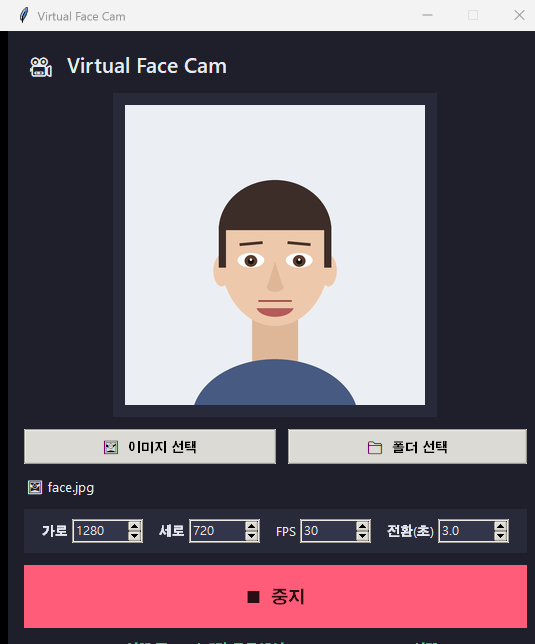
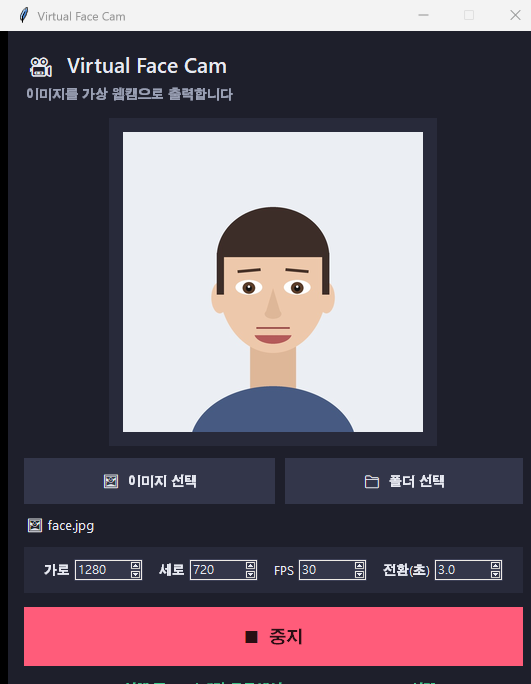
UI 개선: HiDPI 대응 + 플랫 디자인
- 고배율(HiDPI) 화면 흐림 방지: DPI awareness + Tk scaling
- 미리보기 크기를 화면 배율에 맞춰 스케일
- 파일 선택 버튼을 다크 플랫 스타일 + 호버 효과로 교체
- 스핀박스/입력창 테두리 정리, 부제목 추가
- 스크린샷 갱신

diff --git a/gui.py b/gui.py
@@ -2,11 +2,33 @@
 
     python gui.py
 """
+import sys
 import threading
 from pathlib import Path
 
 import tkinter as tk
 from tkinter import filedialog, messagebox, ttk
+
+
+def enable_hidpi():
+    """Windows 고해상도 화면에서 흐릿하게 확대되는 것 방지."""
+    if sys.platform == "win32":
+        import ctypes
+        try:
+            # PER_MONITOR_AWARE_V2 (Win10 1703+)
+            ctypes.windll.user32.SetProcessDpiAwarenessContext(-4)
+            return
+        except Exception:
+            pass
+        try:
+            ctypes.windll.shcore.SetProcessDpiAwareness(2)
+            return
+        except Exception:
+            pass
+        try:
+            ctypes.windll.user32.SetProcessDPIAware()
+        except Exception:
+            pass
 
 from PIL import Image, ImageTk
 
@@ -41,6 +63,13 @@ class App:
         self.error = None
         self._thumb = None
 
+        # 화면 배율에 맞춘 미리보기 크기 (96dpi 기준)
+        try:
+            self.scale = max(1.0, root.winfo_fpixels("1i") / 96.0)
+        except Exception:
+            self.scale = 1.0
+        self.pv = int(PREVIEW * self.scale)
+
         self._setup_style()
         self._build()
 
@@ -61,11 +90,13 @@ class App:
                     font=("Segoe UI Semibold", 16))
         s.configure("CardLabel.TLabel", background=CARD, foreground=TEXT,
                     font=("Segoe UI", 10))
-        s.configure("TButton", font=("Segoe UI", 10), padding=6)
-        s.configure("Accent.TButton", font=("Segoe UI Semibold", 11), padding=8)
-        s.configure("TEntry", fieldbackground="#33364a", foreground=TEXT)
-        s.configure("TSpinbox", fieldbackground="#33364a", foreground=TEXT,
-                    arrowsize=12)
+        s.configure("TEntry", fieldbackground="#33364a", foreground=TEXT,
+                    bordercolor="#3d4056", relief="flat")
+        s.configure("TSpinbox", fieldbackground="#33364a", background="#33364a",
+                    foreground=TEXT, arrowcolor=TEXT, arrowsize=11,
+                    bordercolor="#3d4056", relief="flat")
+        s.map("TSpinbox", fieldbackground=[("readonly", "#33364a")],
+              bordercolor=[("focus", ACCENT)])
 
     def _build(self):
         pad = 16
@@ -73,32 +104,35 @@ class App:
         wrap.grid()
 
         ttk.Label(wrap, text="🎥  Virtual Face Cam", style="Title.TLabel")\
-            .grid(row=0, column=0, columnspan=2, sticky="w", pady=(0, 12))
+            .grid(row=0, column=0, columnspan=2, sticky="w")
+        ttk.Label(wrap, text="이미지를 가상 웹캠으로 출력합니다",
+                  foreground=MUTED).grid(row=1, column=0, columnspan=2,
+                                         sticky="w", pady=(2, 14))
 
         # 미리보기 카드
-        card = ttk.Frame(wrap, style="Card.TFrame", padding=12)
-        card.grid(row=1, column=0, columnspan=2, pady=(0, 12))
-        self.preview = tk.Canvas(card, width=PREVIEW, height=PREVIEW,
+        card = ttk.Frame(wrap, style="Card.TFrame", padding=14)
+        card.grid(row=2, column=0, columnspan=2, pady=(0, 12))
+        self.preview = tk.Canvas(card, width=self.pv, height=self.pv,
                                  bg="#33364a", highlightthickness=0)
         self.preview.grid(row=0, column=0)
         self._draw_placeholder()
 
         # 파일 선택 버튼
         btns = ttk.Frame(wrap)
-        btns.grid(row=2, column=0, columnspan=2, sticky="ew", pady=(0, 12))
-        ttk.Button(btns, text="🖼  이미지 선택", command=self.pick_file)\
-            .grid(row=0, column=0, sticky="ew", padx=(0, 6))
-        ttk.Button(btns, text="📁  폴더 선택", command=self.pick_dir)\
-            .grid(row=0, column=1, sticky="ew", padx=(6, 0))
+        btns.grid(row=3, column=0, columnspan=2, sticky="ew", pady=(0, 10))
+        self._flat_button(btns, "🖼  이미지 선택", self.pick_file)\
+            .grid(row=0, column=0, sticky="ew", padx=(0, 5))
+        self._flat_button(btns, "📁  폴더 선택", self.pick_dir)\
+            .grid(row=0, column=1, sticky="ew", padx=(5, 0))
         btns.columnconfigure(0, weight=1)
         btns.columnconfigure(1, weight=1)
 
         self.path_lbl = ttk.Label(wrap, text="선택된 파일 없음", foreground=MUTED)
-        self.path_lbl.grid(row=3, column=0, columnspan=2, sticky="w", pady=(0, 12))
+        self.path_lbl.grid(row=4, column=0, columnspan=2, sticky="w", pady=(0, 12))
 
         # 설정 행
-        opt = ttk.Frame(wrap, style="Card.TFrame", padding=10)
-        opt.grid(row=4, column=0, columnspan=2, sticky="ew", pady=(0, 12))
+        opt = ttk.Frame(wrap, style="Card.TFrame", padding=12)
+        opt.grid(row=5, column=0, columnspan=2, sticky="ew", pady=(0, 14))
         self._spin(opt, "가로", self.width, 320, 3840, 0)
         self._spin(opt, "세로", self.height, 240, 2160, 2)
         self._spin(opt, "FPS", self.fps, 1, 60, 4)
@@ -109,12 +143,21 @@ class App:
             wrap, text="▶  시작", command=self.toggle,
             bg=GREEN, fg="#10261c", activebackground="#35b87d",
             font=("Segoe UI Semibold", 13), relief="flat", cursor="hand2",
-            height=2)
-        self.toggle_btn.grid(row=5, column=0, columnspan=2, sticky="ew")
+            bd=0, height=2)
+        self.toggle_btn.grid(row=6, column=0, columnspan=2, sticky="ew")
 
         # 상태
         self.status = ttk.Label(wrap, text="● 정지됨", foreground=RED)
-        self.status.grid(row=6, column=0, columnspan=2, pady=(10, 0))
+        self.status.grid(row=7, column=0, columnspan=2, pady=(12, 0))
+
+    def _flat_button(self, parent, text, command):
+        b = tk.Button(parent, text=text, command=command,
+                      bg="#33364a", fg=TEXT, activebackground="#454a63",
+                      activeforeground=TEXT, relief="flat", cursor="hand2",
+                      font=("Segoe UI", 10), bd=0, padx=10, pady=11)
+        b.bind("<Enter>", lambda e: b.config(bg="#3d4157"))
+        b.bind("<Leave>", lambda e: b.config(bg="#33364a"))
+        return b
 
     def _spin(self, parent, label, var, lo, hi, col, is_float=False):
         ttk.Label(parent, text=label, style="CardLabel.TLabel")\
@@ -126,7 +169,7 @@ class App:
 
     def _draw_placeholder(self):
         self.preview.delete("all")
-        self.preview.create_text(PREVIEW // 2, PREVIEW // 2,
+        self.preview.create_text(self.pv // 2, self.pv // 2,
                                  text="미리보기\n\n이미지를 선택하세요",
                                  fill=MUTED, font=("Segoe UI", 11),
                                  justify="center")
@@ -141,10 +184,10 @@ class App:
             p = imgs[0]
         try:
             im = Image.open(p)
-            im.thumbnail((PREVIEW, PREVIEW), Image.LANCZOS)
+            im.thumbnail((self.pv, self.pv), Image.LANCZOS)
             self._thumb = ImageTk.PhotoImage(im)
             self.preview.delete("all")
-            self.preview.create_image(PREVIEW // 2, PREVIEW // 2,
+            self.preview.create_image(self.pv // 2, self.pv // 2,
                                       image=self._thumb)
         except Exception:
             self._draw_placeholder()
@@ -226,7 +269,14 @@ class App:
 
 
 def main():
+    enable_hidpi()
     root = tk.Tk()
+    # 실제 DPI에 맞춰 Tk 위젯 스케일 조정 (선명 + 올바른 크기)
+    try:
+        dpi = root.winfo_fpixels("1i")
+        root.tk.call("tk", "scaling", dpi / 72.0)
+    except Exception:
+        pass
     App(root)
     root.mainloop()
 